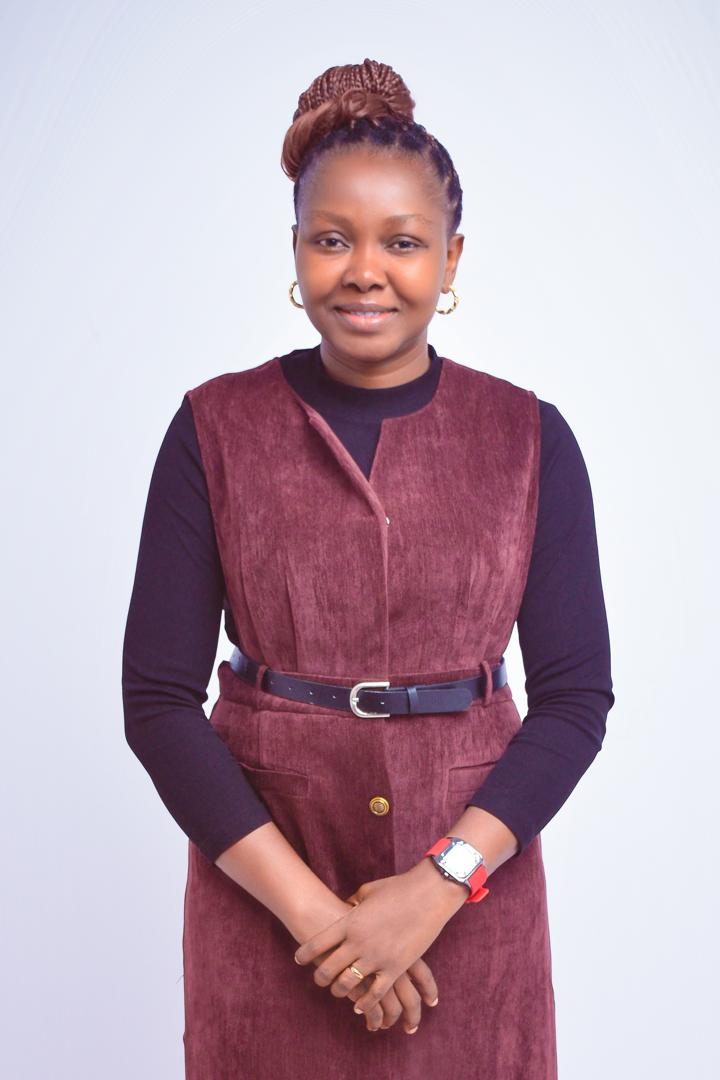
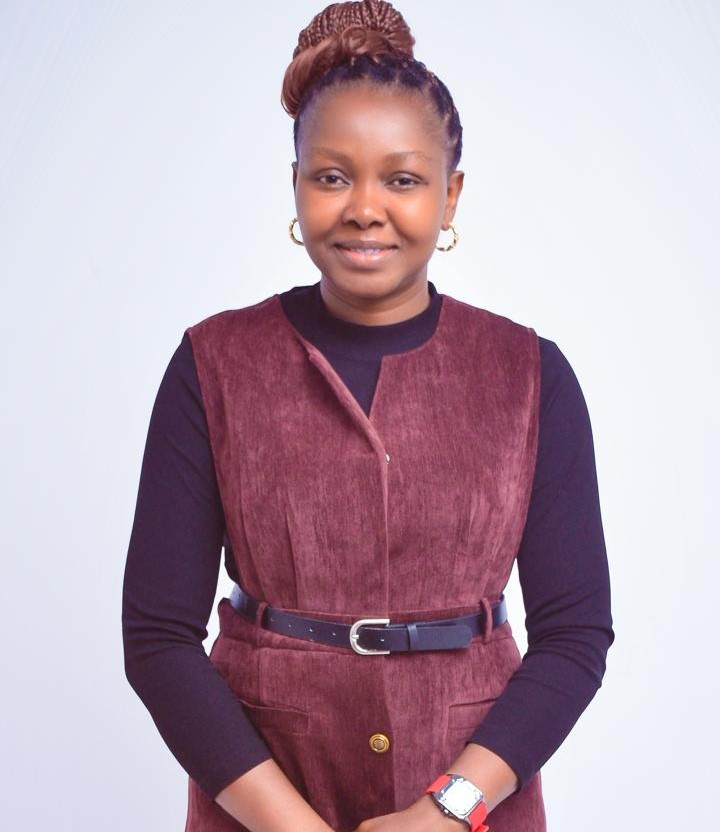
All pages are updated including the images

Changed region(s): [[0.1528, 0.0, 0.8556, 1.0]]

diff --git a/about.html b/about.html
@@ -53,15 +53,16 @@
                         <p class="text-xs text-gray-300">Nigerian Bar Association</p>
                     </div>
                 </a>
-                <!-- Desktop Menu -->
-             <div class="hidden md:flex items-center space-x-8">
-            <a href="index.html" class="hover:text-nba-gold transition">Home</a>
+          <!-- Desktop Menu -->
+           <div class="hidden md:flex items-center space-x-8">
+           <a href="index.html" class="hover:text-nba-gold transition">Home</a>
            <a href="about.html" class="text-nba-gold font-medium">About</a>
-          <a href="blog.html" class="hover:text-nba-gold transition">Blog</a>
-         <a href="membership.html" class="px-4 py-2 bg-nba-gold text-nba-navy rounded hover:bg-yellow-500  transition">
-              Member Login
-         </a>
-        </div>
+           <a href="blog.html" class="hover:text-nba-gold transition">Blog</a>
+           <a href="Membership.html" class="hover:text-nba-gold transition">Members</a>
+           <a href="Event.html" class="hover:text-nba-gold transition">Event</a>
+           <a href="election.html" class="hover:text-nba-gold transition">Election</a>
+           <a href="contact.html" class="hover:text-nba-gold transition">Contact</a>
+           </div>
 
          <!-- Mobile Menu Button -->
            <button id="mobile-menu-btn"

diff --git a/index.html b/index.html
@@ -159,6 +159,7 @@
         <a href="event.html" class="block py-2 text-nba-navy font-medium">Events</a>
         <a href="#human-rights" class="block py-2 text-nba-navy font-medium">Human Rights</a>
         <a href="election.html" class="block py-2 text-nba-navy font-medium">Elections</a>
+        <a href="blog.html" class="block py-2 text-nba-navy font-medium">Blog</a>
         <a href="contact.html" class="block py-2 text-nba-navy font-medium">Contact</a>
          <a href="membershiplogin.html" class="block py-2 text-nba-navy font-medium">Member Login</a>
           <a href="join.html" class="block py-2 text-nba-navy font-medium"> Join NBA</a>

diff --git a/blog.html b/blog.html
@@ -98,9 +98,9 @@
         <a href="about.html" class="hover:text-nba-gold">About</a>
         <a href="events.html" class="text-nba-gold font-medium">Events</a>
         <a href="blog.html" class="hover:text-nba-gold">Blog</a>
-        <a href="membershiplogin.html" class="px-4 py-2 bg-nba-gold text-nba-navy rounded text-center">
-            Member Login
-        </a>
+        <a href="Membership.html" class="hover:text-nba-gold transition">Members</a>
+        <a href="election.html" class="hover:text-nba-gold transition">Election</a>
+        <a href="contact.html" class="hover:text-nba-gold transition">Contact</a>
     </div>
 </div>
 

diff --git a/contact.html b/contact.html
@@ -82,9 +82,9 @@
         <a href="about.html" class="hover:text-nba-gold">About</a>
         <a href="events.html" class="text-nba-gold font-medium">Events</a>
         <a href="blog.html" class="hover:text-nba-gold">Blog</a>
-        <a href="membershiplogin.html" class="px-4 py-2 bg-nba-gold text-nba-navy rounded text-center">
-            Member Login
-        </a>
+        <a href="election.html" class="hover:text-nba-gold transition">Election</a>
+        <a href="Membership.html" class="hover:text-nba-gold transition">Members</a>
+        <a href="contact.html" class="hover:text-nba-gold transition">Contact</a>
     </div>
 </div>
 

diff --git a/event.html b/event.html
@@ -87,9 +87,9 @@
         <a href="about.html" class="hover:text-nba-gold">About</a>
         <a href="events.html" class="text-nba-gold font-medium">Events</a>
         <a href="blog.html" class="hover:text-nba-gold">Blog</a>
-        <a href="membershiplogin.html" class="px-4 py-2 bg-nba-gold text-nba-navy rounded text-center">
-            Member Login
-        </a>
+        <a href="election.html" class="hover:text-nba-gold transition">Election</a>
+        <a href="Membership.html" class="hover:text-nba-gold transition">Members</a>
+        <a href="contact.html" class="hover:text-nba-gold transition">Contact</a>
     </div>
 </div>
 

diff --git a/membership.html b/membership.html
@@ -85,9 +85,9 @@
         <a href="about.html" class="hover:text-nba-gold">About</a>
         <a href="events.html" class="text-nba-gold font-medium">Events</a>
         <a href="blog.html" class="hover:text-nba-gold">Blog</a>
-        <a href="membershiplogin.html" class="px-4 py-2 bg-nba-gold text-nba-navy rounded text-center">
-            Member Login
-        </a>
+        <a href="election.html" class="hover:text-nba-gold transition">Election</a>
+        <a href="Membership.html" class="hover:text-nba-gold transition">Members</a>
+        <a href="contact.html" class="hover:text-nba-gold transition">Contact</a>
     </div>
 </div>
 
